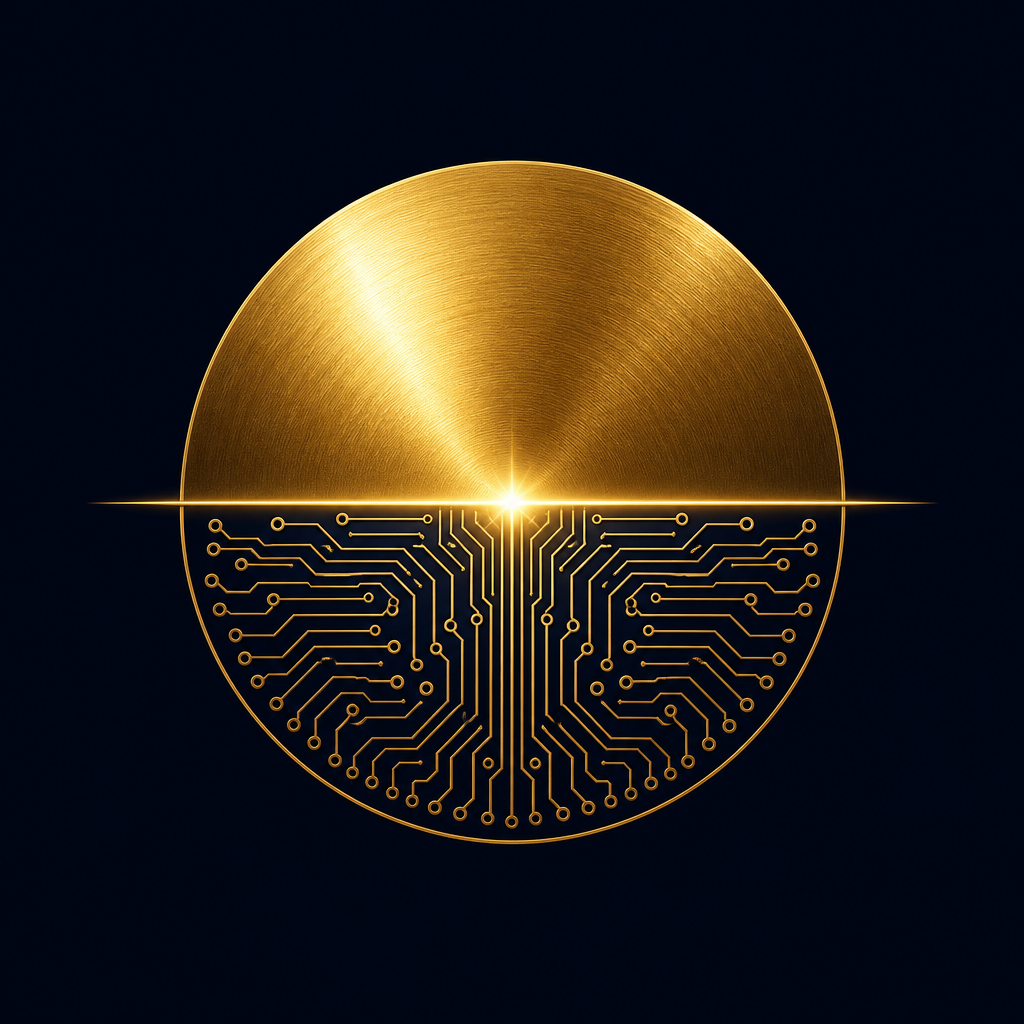
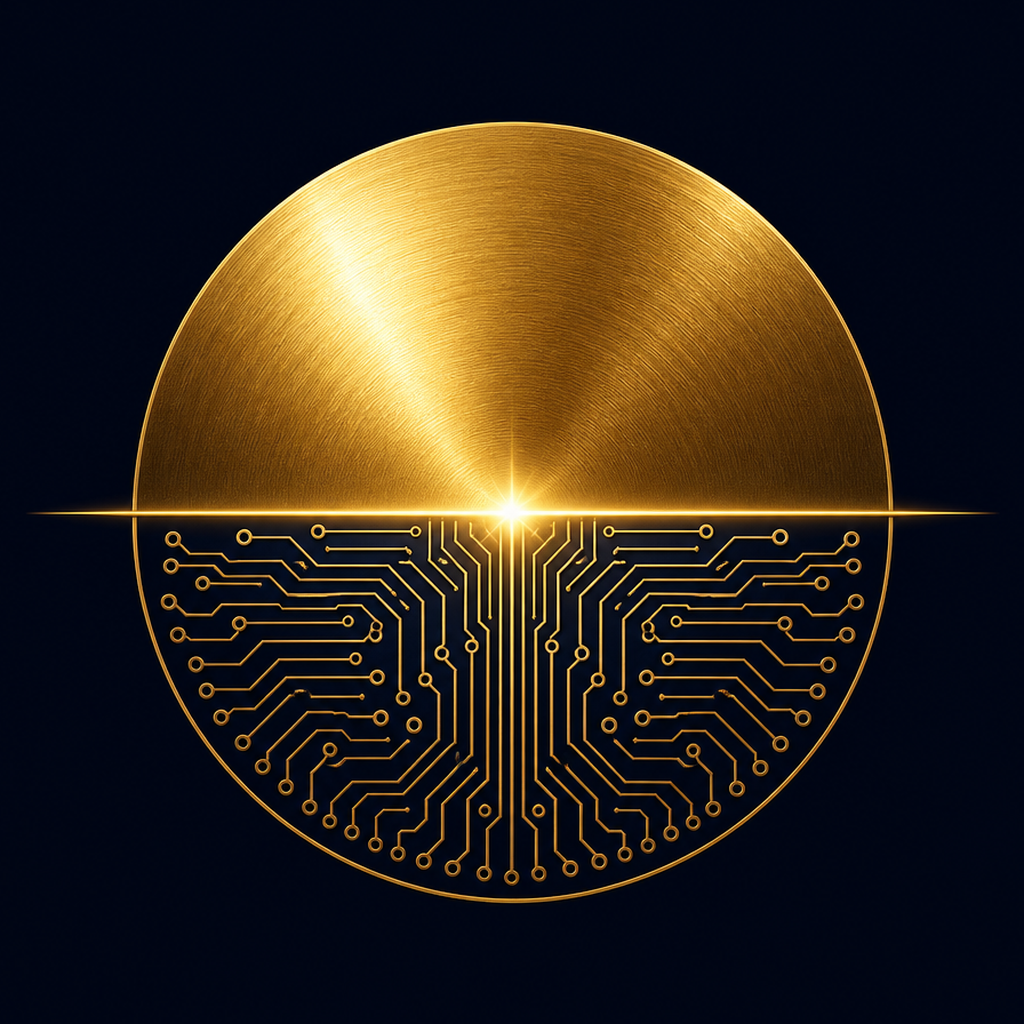
Use the square wired-disk for the 26px header mark.
The full lockup is unreadable at nav size, so the header mark and
favicon stay on the cropped icon. Share cards use the lockup.

Changed region(s): [[0.0625, 0.0938, 0.9375, 0.9062]]

diff --git a/src/app/layout.tsx b/src/app/layout.tsx
@@ -28,7 +28,7 @@ export const metadata: Metadata = {
     siteName: 'Sunrise Gen AI',
     images: [
       {
-        url: '/sunrise-gen-ai-icon.png',
+        url: '/sunrise-gen-ai-logo.png',
         width: 1024,
         height: 1024,
         alt: 'Sunrise Gen AI',
@@ -39,7 +39,7 @@ export const metadata: Metadata = {
     card: 'summary_large_image',
     title: 'Sunrise Gen AI — Grounding the Autonomous Era',
     description: 'Enterprise GenAI, built to run. Agents, retrieval, and data platforms in production.',
-    images: ['/sunrise-gen-ai-icon.png'],
+    images: ['/sunrise-gen-ai-logo.png'],
   },
   icons: {
     icon: '/sunrise-gen-ai-icon.png',

diff --git a/src/components/Nav.tsx b/src/components/Nav.tsx
@@ -42,7 +42,7 @@ export default function Nav() {
     <nav ref={navRef} className="nav" data-stuck={stuck} data-invert={invert}>
       <a className="nav-brand" href="#top" onClick={(e) => jump(e, '#top')} aria-label="Sunrise Gen AI — top">
         {/* eslint-disable-next-line @next/next/no-img-element */}
-        <img src="/sunrise-gen-ai-logo.png" alt="" className="nav-mark" width={26} height={26} />
+        <img src="/sunrise-gen-ai-icon.png" alt="" className="nav-mark" width={26} height={26} />
         <span className="nav-name">Sunrise Gen AI</span>
       </a>
       <div className="nav-links">
